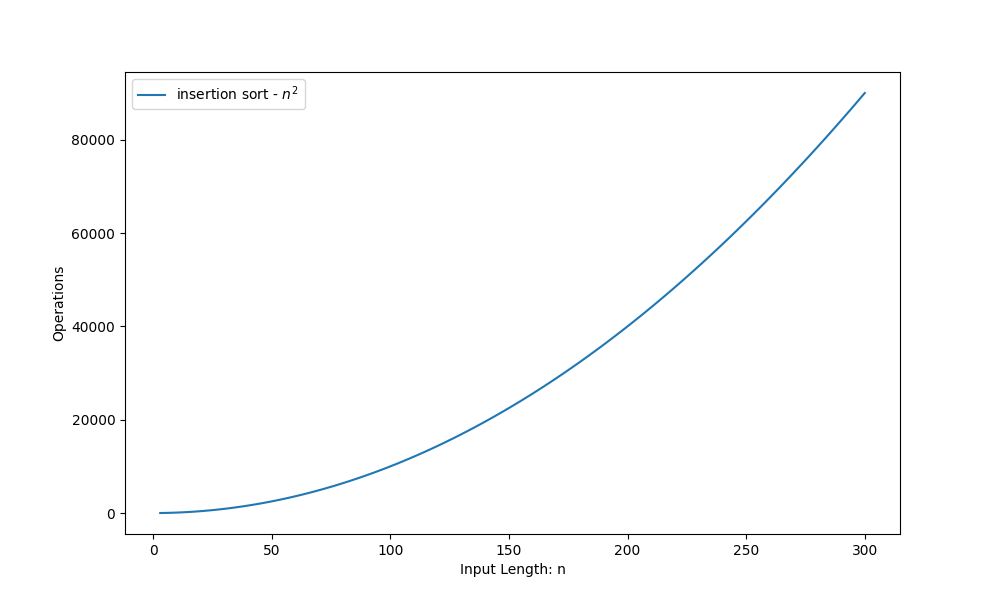
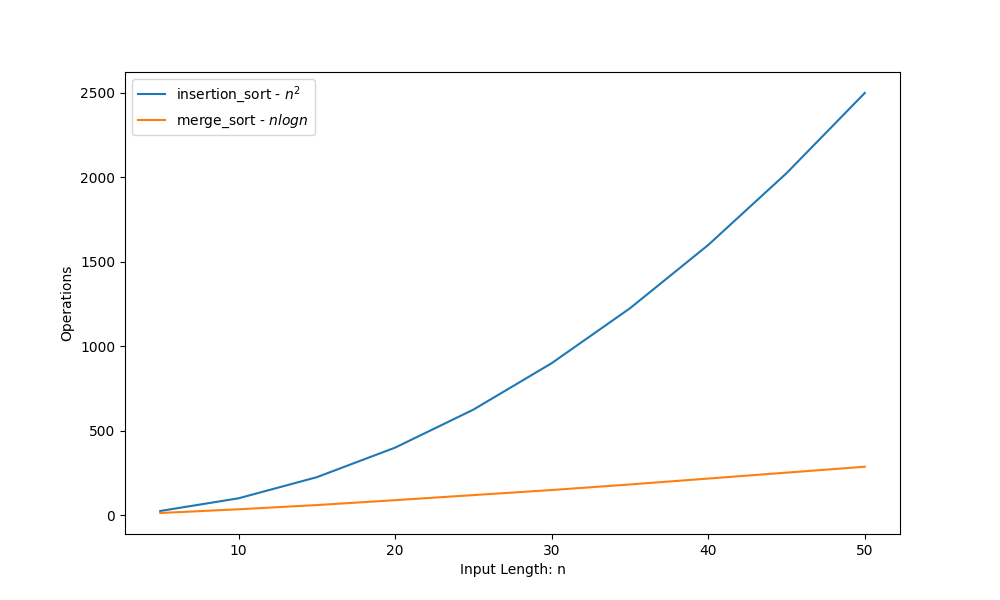
implemented merge_sort

diff --git a/Sorting/algorithms/merge_sort.py b/Sorting/algorithms/merge_sort.py
@@ -1,0 +1,36 @@
+def merge(A: list[int], p: int, q: int, r: int):
+    first_len = q - p 
+    second_len = r - q
+
+    L = [0] * (first_len + 1)
+    R = [0] * (second_len + 1)
+
+    for i in range(first_len):
+        L[i] = A[p+i]
+
+    for j in range(second_len):
+        R[j] = A[q+j]
+
+    L[first_len] = float('inf')
+    R[second_len] = float('inf')
+
+    i, j = 0, 0
+
+    for k in range(p, r):
+        if L[i] <= R[j]:
+            A[k] = L[i]
+            i += 1
+        else:
+            A[k] = R[j]
+            j += 1
+
+def merge_sort(A: list[int], p: int=0, r: int=0):
+    if r == 0: r = len(A)
+    if p < r-1:
+        q = ( p+r )//2
+        merge_sort(A, p, q)
+        merge_sort(A, q, r)
+        merge(A, p, q, r)
+    return A
+
+

diff --git a/Sorting/README.md b/Sorting/README.md
@@ -1,5 +1,8 @@
-## Sorting Algorithm Compexity Analisys 
+## Sorting Algorithm Compexity Analisys ( worst case )
 
 #### Insertion Sort $\ O(n^2)$
 
 ![Complexity Categories](./source/sorting_complexity.png)
+
+
+##### All sorting algorithms are in the Cormen notation
